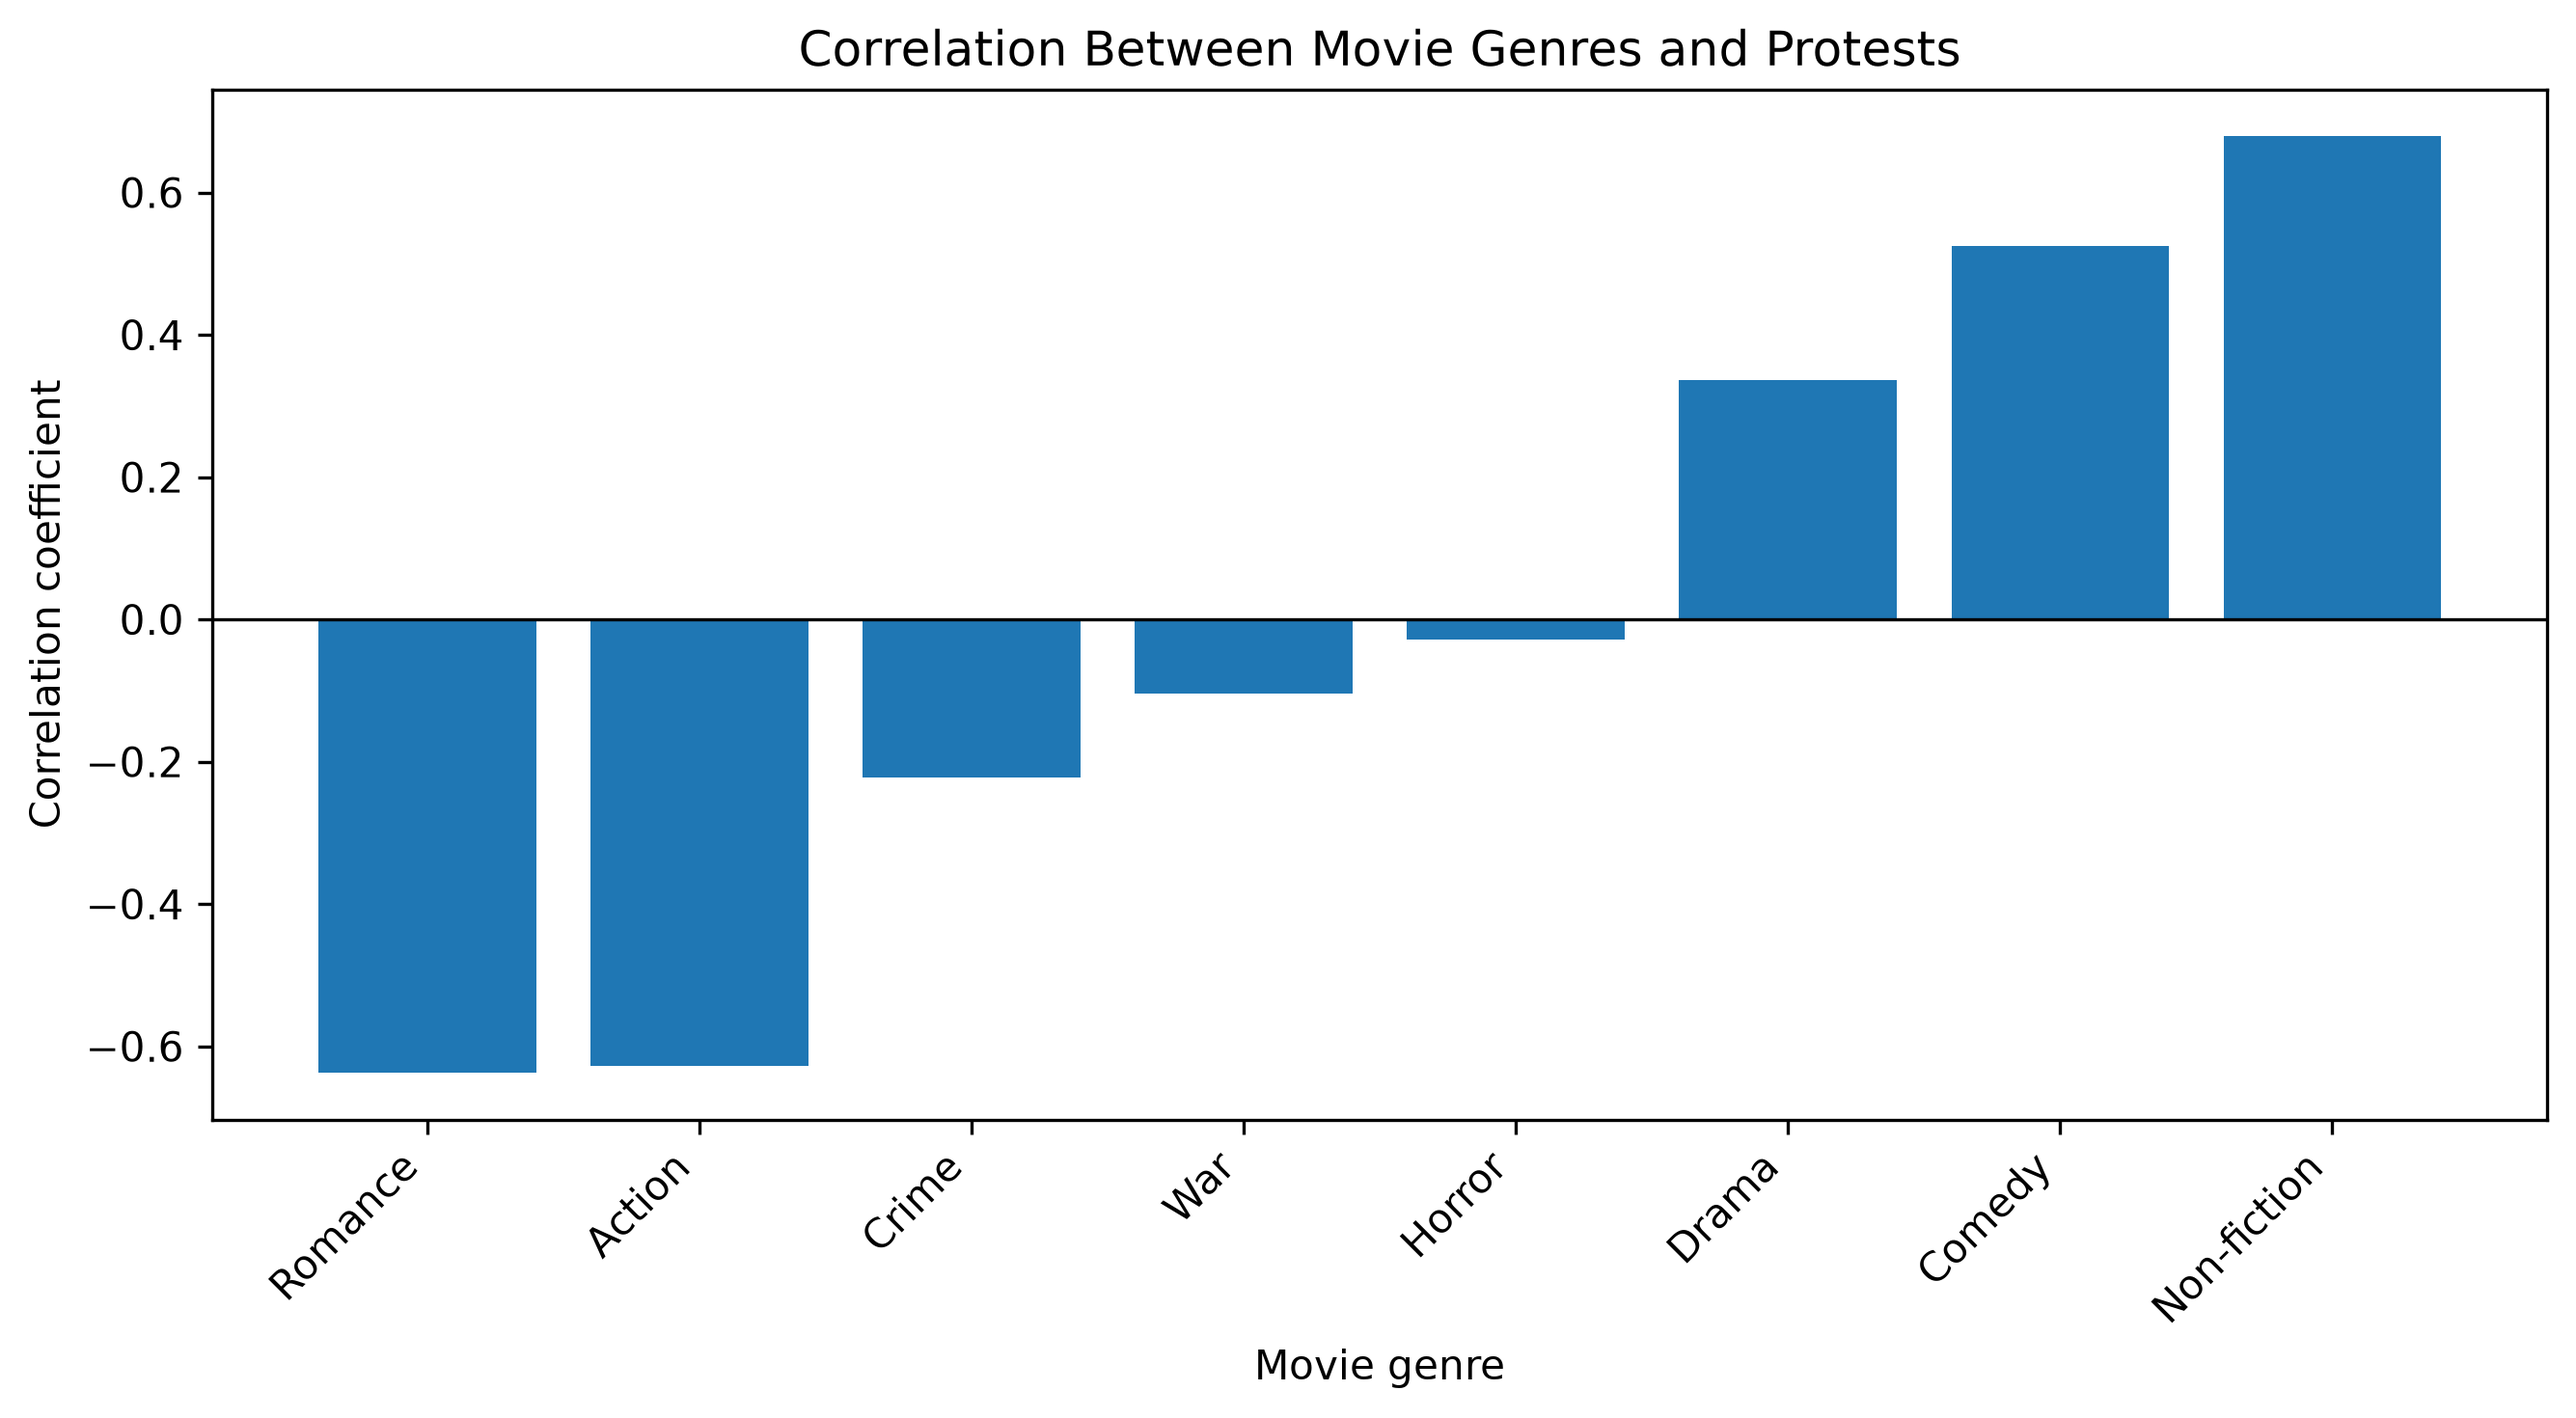
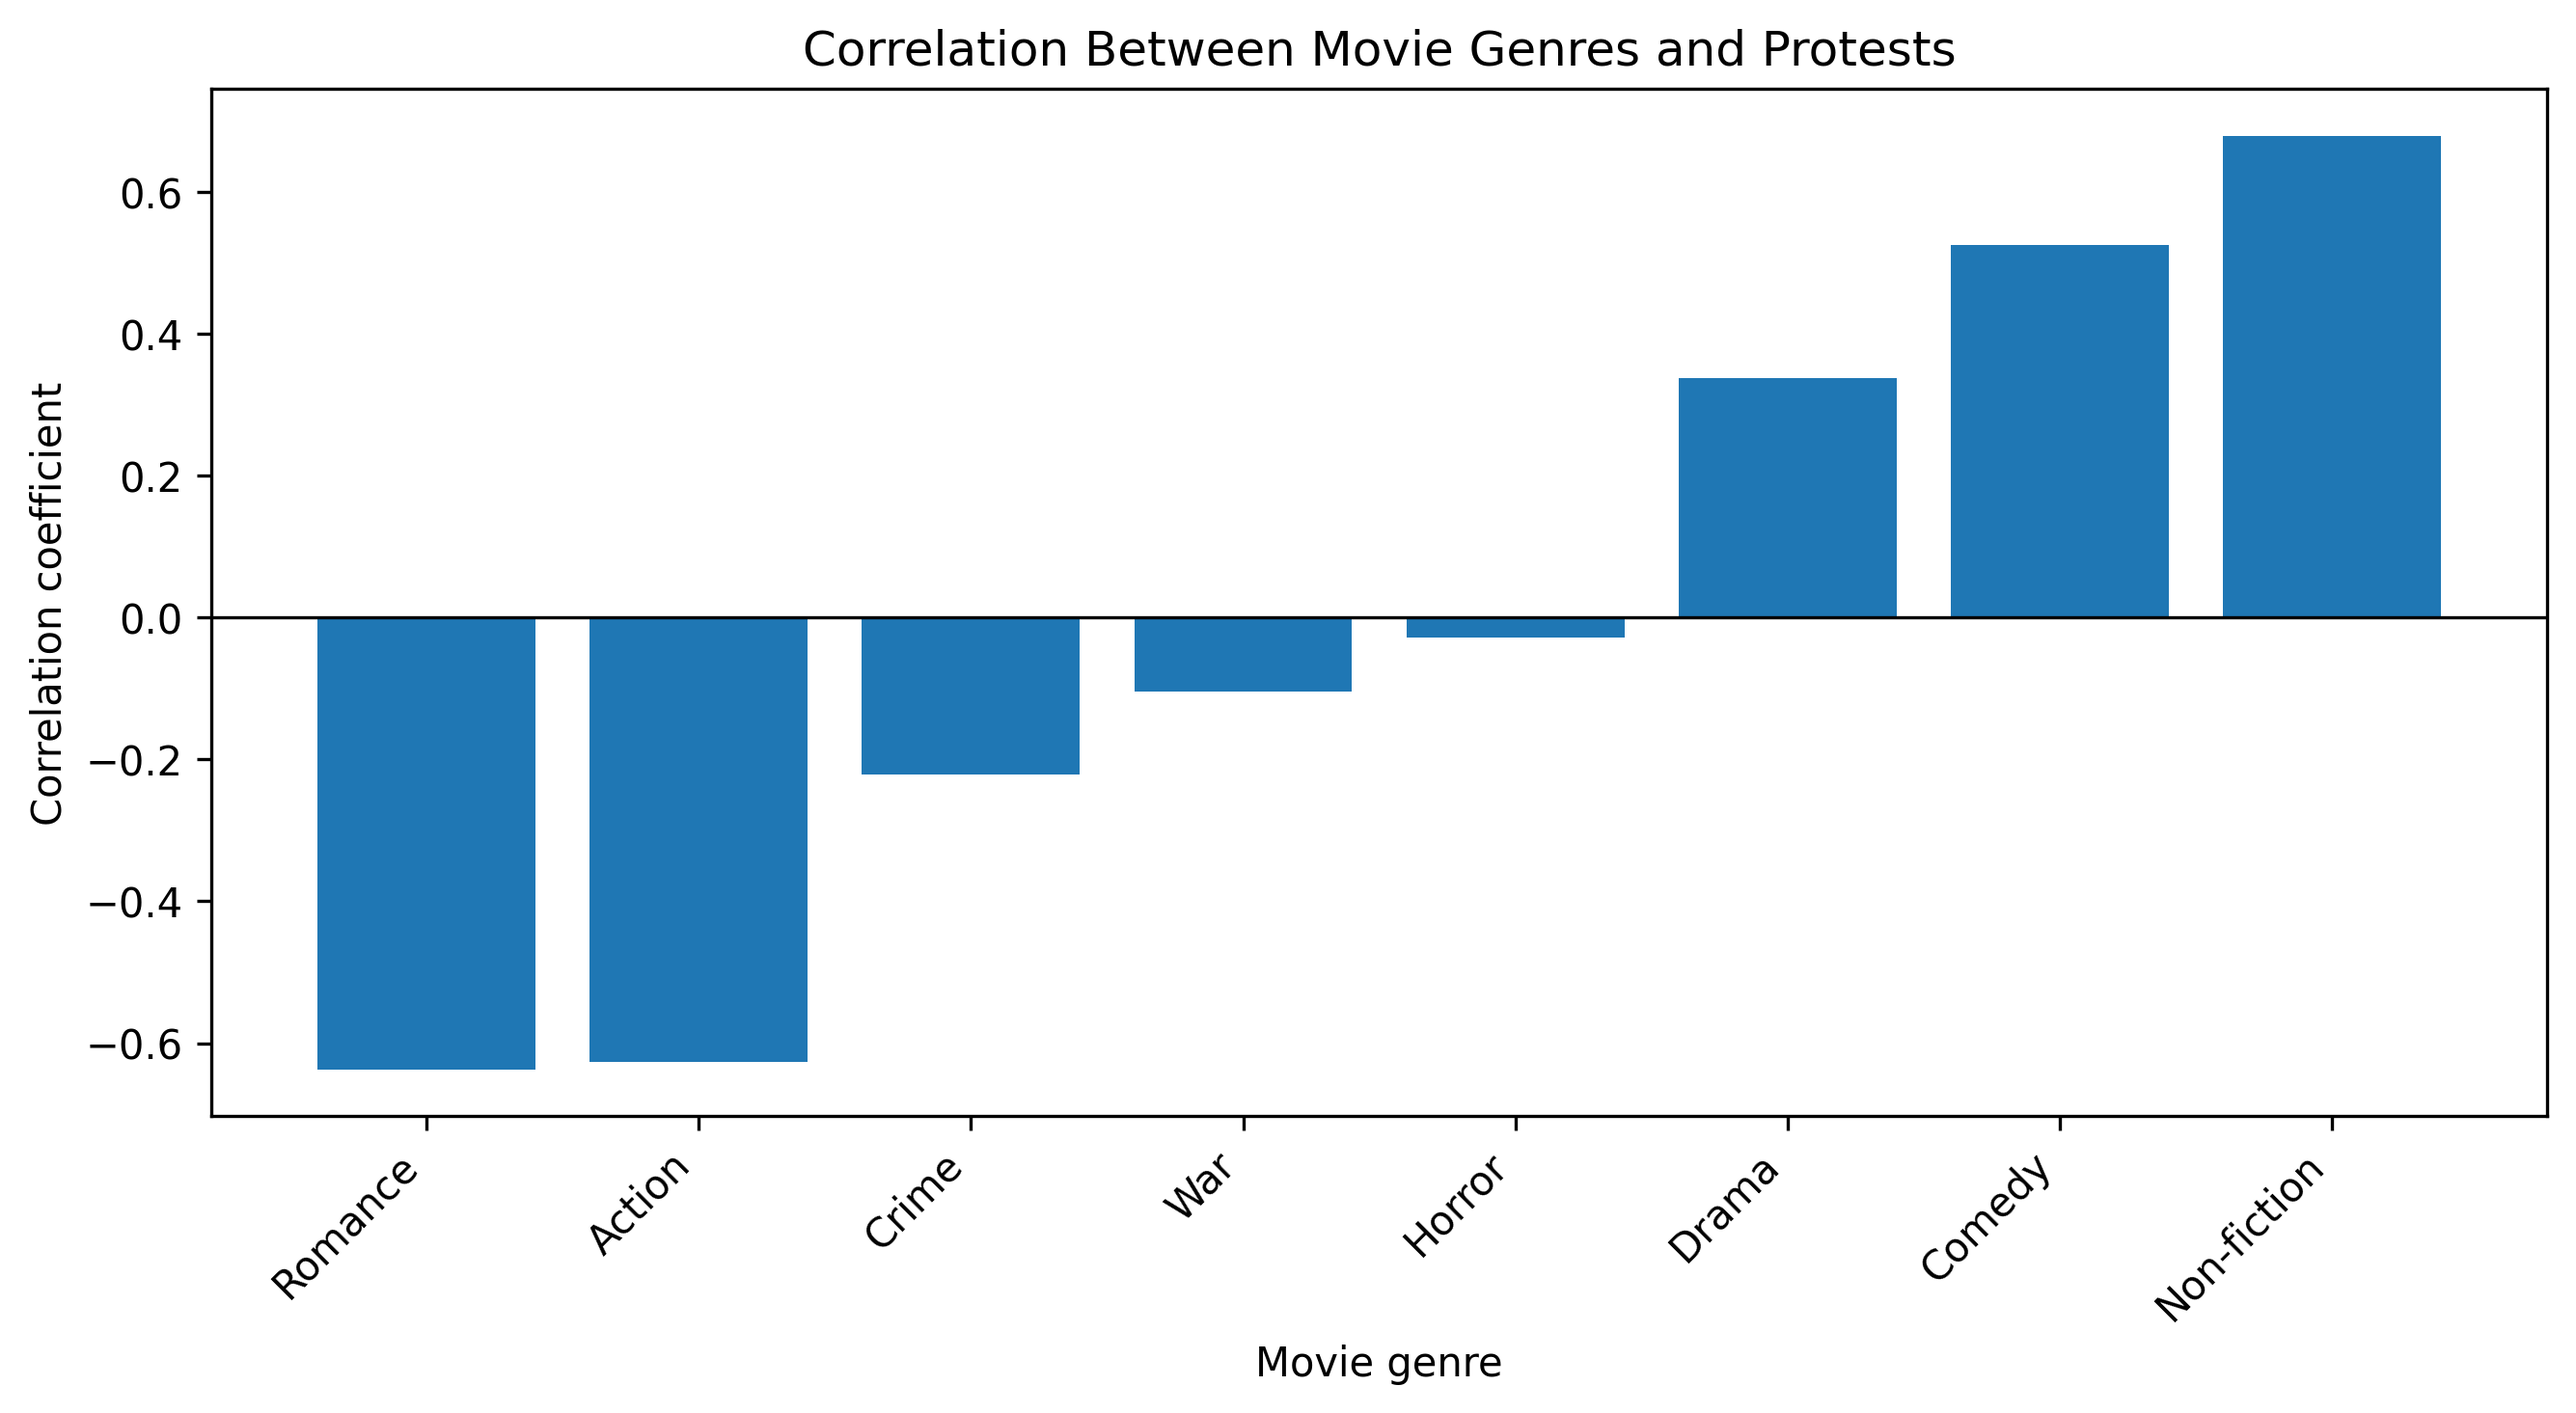
editted the file paths

diff --git a/correlation/correlation_graphs/with_elections.py b/correlation/correlation_graphs/with_elections.py
@@ -1,7 +1,7 @@
 import matplotlib.pyplot as plt
 import pandas as pd
 
-df = pd.read_csv("../correlation_results/correlation_with_elections.csv")
+df = pd.read_csv("correlation/correlation_results/correlation_with_elections.csv")
 df = df.sort_values("Correlation", ascending=True)
 
 plt.figure(figsize=(9, 5))
@@ -15,7 +15,7 @@ plt.xticks(rotation=45, ha="right")
 plt.tight_layout()
 
 plt.savefig(
-    "../graphs/movie_genre_election_correlation.png",
+    "correlation/graphs/movie_genre_election_correlation.png",
     dpi=300,
     bbox_inches="tight"
 )

diff --git a/correlation/correlation_graphs/with_protests.py b/correlation/correlation_graphs/with_protests.py
@@ -1,7 +1,7 @@
 import matplotlib.pyplot as plt
 import pandas as pd
 
-df = pd.read_csv("../correlation_results/correlation_with_protests.csv")
+df = pd.read_csv("correlation/correlation_results/correlation_with_protests.csv")
 df = df.sort_values("Correlation", ascending=True)
 
 plt.figure(figsize=(9, 5))
@@ -15,7 +15,7 @@ plt.xticks(rotation=45, ha="right")
 plt.tight_layout()
 
 plt.savefig(
-    "../graphs/movie_genre_protest_correlation.png",
+    "correlation/graphs/movie_genre_protest_correlation.png",
     dpi=300,
     bbox_inches="tight"
 )

diff --git a/correlation/correlation_graphs/with_crimes.py b/correlation/correlation_graphs/with_crimes.py
@@ -1,7 +1,7 @@
 import matplotlib.pyplot as plt
 import pandas as pd
 
-df = pd.read_csv("../correlation_results/correlation_with_crimes.csv")
+df = pd.read_csv("correlation/correlation_results/correlation_with_crimes.csv")
 df = df.sort_values("Correlation", ascending=True)
 
 plt.figure(figsize=(9, 5))
@@ -15,7 +15,7 @@ plt.xticks(rotation=45, ha="right")
 plt.tight_layout()
 
 plt.savefig(
-    "../graphs/movie_genre_crime_correlation.png",
+    "correlation/graphs/movie_genre_crime_correlation.png",
     dpi=300,
     bbox_inches="tight"
 )
